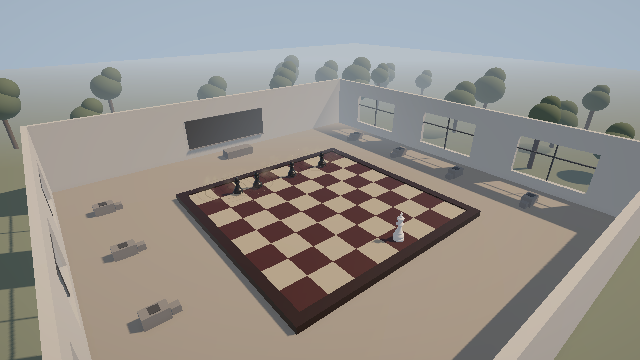
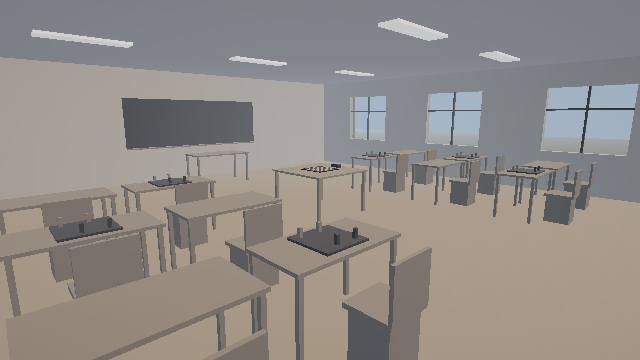
Classroom blockout at true chess scale: the board lies on a table in a giant classroom, with a ceiling
- 1 real metre = 36.4 game metres (a 2 m square is a 5.5 cm one): a 1.2 m chess table (44 m, 27 m above the floor),
  a 10 x 10 m classroom 2.8 m high (~364 m across, ~100 m tall), windows, chalkboard, door, bookshelves,
  student desks with chairs and little games set up, ceiling with light panels, giant trees outside
- Table and floor have colliders for rubble; far clip 2500 m and a long haze for the room's size

diff --git a/Assets/Scripts/Core/ClassroomBlockout.cs b/Assets/Scripts/Core/ClassroomBlockout.cs
@@ -3,26 +3,40 @@ using UnityEngine;
 namespace KingLastPiece
 {
     /// <summary>
-    /// Grey-box layout of the planned "white chess classroom" around the board (to be replaced by the real models):
-    /// a bright room with big windows on the east and west walls looking out on trees, a chalkboard and teacher's desk
-    /// on the north wall, the door and bookshelves on the south wall, and student desks with little chessboards along
-    /// the sides. The room keeps a fixed margin around the board and is rebuilt when the endless board grows.
+    /// Grey-box layout of the planned "white chess classroom" (to be replaced by the real models), at true chess scale:
+    /// the battlefield is a real chessboard lying on a table. A board square is 2 m in the game and about 5.5 cm in real
+    /// life, so the world around is <see cref="Scale"/> ≈ 36× real size — the table top is a 44 m plateau 27 m above the
+    /// floor, the room (10 × 10 m, 2.8 m high in real life) is ~360 m across and ~100 m tall, and the trees outside the
+    /// windows are giants. The table grows with the endless board; the room stays.
     /// It replaces the dark hall (pillars, braziers, black floor) and switches the lighting to daylight.
     /// </summary>
     public static class ClassroomBlockout
     {
         const string RootName = "Classroom (blockout)";
-        /// <summary>Floor space between the board's edge and the walls.</summary>
-        const float Margin = 9f;
-        const float WallHeight = 6f, WallThick = 0.4f, FloorY = -0.4f;
+
+        /// <summary>Game metres per real metre: a 2 m square stands for a 5.5 cm one.</summary>
+        public const float Scale = 2f / 0.055f;
+
+        /// <summary>Top of the table (the board's underside rests on it).</summary>
+        const float TableTop = -0.4f;
 
         static readonly Color WallGrey = new Color(0.86f, 0.86f, 0.84f);
         static readonly Color FloorGrey = new Color(0.66f, 0.64f, 0.6f);
-        static readonly Color PropGrey = new Color(0.55f, 0.55f, 0.55f);
+        static readonly Color PropGrey = new Color(0.58f, 0.57f, 0.55f);
+        static readonly Color TableGrey = new Color(0.62f, 0.6f, 0.56f);
         static readonly Color DarkGrey = new Color(0.28f, 0.29f, 0.3f);
+        static readonly Color CeilingGrey = new Color(0.9f, 0.9f, 0.89f);
         static readonly Color GroundGrey = new Color(0.5f, 0.55f, 0.48f);
         static readonly Color TreeGrey = new Color(0.38f, 0.45f, 0.36f);
         static readonly Color TrunkGrey = new Color(0.4f, 0.36f, 0.32f);
+
+        static float M(float realMetres) => realMetres * Scale;
+
+        // Real-life room (metres): the chess table stands in the middle of a 10 × 10 m classroom.
+        const float RoomHalf = 5f, RoomHeight = 2.8f, WallThick = 0.15f;
+        const float TableHeight = 0.75f, TableThick = 0.03f, TableLeg = 0.05f;
+
+        static float Floor => TableTop - M(TableHeight);
 
         /// <summary>Builds (or rebuilds, for the current board size) the room under the arena.</summary>
         public static void Build(ArenaBoard board)
@@ -40,98 +54,156 @@ namespace KingLastPiece
 
             var root = new GameObject(RootName).transform;
             root.SetParent(arena, false);
-            float half = GameManager.BoardHalf + Margin;
             var wall = MaterialLib.Get(WallGrey, 0.2f);
-            var floor = MaterialLib.Get(FloorGrey, 0.3f);
             var prop = MaterialLib.Get(PropGrey, 0.3f);
             var dark = MaterialLib.Get(DarkGrey, 0.4f);
 
-            // Floor of the room, and the lawn outside.
-            Box(root, "Floor", new Vector3(0f, FloorY - 0.05f, 0f), new Vector3(half * 2f, 0.1f, half * 2f), floor);
-            Box(root, "Outside Ground", new Vector3(0f, FloorY - 0.15f, 0f), new Vector3(220f, 0.1f, 220f), MaterialLib.Get(GroundGrey, 0.1f));
-
-            // North: solid wall, chalkboard, teacher's desk.
-            Box(root, "Wall N", new Vector3(0f, FloorY + WallHeight / 2f, half), new Vector3(half * 2f + WallThick, WallHeight, WallThick), wall);
-            Box(root, "Chalkboard", new Vector3(0f, FloorY + 2.6f, half - WallThick / 2f - 0.06f), new Vector3(9f, 3f, 0.1f), dark);
-            Box(root, "Chalk Tray", new Vector3(0f, FloorY + 1.05f, half - WallThick / 2f - 0.15f), new Vector3(9f, 0.08f, 0.2f), prop);
-            Box(root, "Teacher Desk", new Vector3(0f, FloorY + 0.4f, half - 2.4f), new Vector3(3f, 0.8f, 1.2f), prop);
-
-            // South: wall with the door and bookshelves.
-            Box(root, "Wall S", new Vector3(0f, FloorY + WallHeight / 2f, -half), new Vector3(half * 2f + WallThick, WallHeight, WallThick), wall);
-            Box(root, "Door", new Vector3(half * 0.55f, FloorY + 1.3f, -half + WallThick / 2f + 0.05f), new Vector3(1.4f, 2.6f, 0.1f), dark);
-            for (int i = 0; i < 2; i++)
-                Box(root, "Bookshelf", new Vector3(-half * 0.55f + i * 3.4f, FloorY + 1.1f, -half + 0.6f), new Vector3(3f, 2.2f, 0.7f), prop);
-
-            // East and west: walls with three big windows each, looking out on the trees.
-            for (int side = -1; side <= 1; side += 2)
-                WindowWall(root, side, half, wall, dark);
-
-            // Student desks with little chessboards along the window walls.
-            for (int side = -1; side <= 1; side += 2)
-                for (int i = 0; i < 4; i++)
-                {
-                    float z = Mathf.Lerp(-half * 0.6f, half * 0.6f, i / 3f);
-                    float x = side * (half - 3.2f);
-                    Box(root, "Student Desk", new Vector3(x, FloorY + 0.37f, z), new Vector3(1.4f, 0.75f, 0.8f), prop);
-                    Box(root, "Desk Chessboard", new Vector3(x, FloorY + 0.76f, z), new Vector3(0.55f, 0.03f, 0.55f), dark);
-                    Box(root, "Chair", new Vector3(x - side * 1.0f, FloorY + 0.23f, z), new Vector3(0.5f, 0.45f, 0.5f), prop);
-                }
-
-            Trees(root, half);
+            ChessTable(root, MaterialLib.Get(TableGrey, 0.35f));
+            Room(root, wall, prop, dark);
+            Furniture(root, prop, dark);
+            Trees(root);
             Daylight();
         }
 
-        static void WindowWall(Transform root, int side, float half, Material wall, Material dark)
+        /// <summary>The table the board lies on: 1.2 m square in real life (≈ 44 m), wider if the endless board outgrows it.</summary>
+        static void ChessTable(Transform root, Material wood)
         {
-            float x = side * half, len = half * 2f + WallThick;
-            const float sill = 1f, top = 4.4f;
+            float half = Mathf.Max(M(0.6f), GameManager.BoardHalf + 6f);
+            float thick = M(TableThick);
+            var top = Box(root, "Chess Table Top", new Vector3(0f, TableTop - thick / 2f, 0f), new Vector3(half * 2f, thick, half * 2f), wood);
+            top.gameObject.AddComponent<BoxCollider>();   // rubble that slides off the board lands on the table
+            float leg = M(TableLeg), legH = M(TableHeight) - thick, inset = half - leg;
+            for (int i = 0; i < 4; i++)
+            {
+                float x = (i % 2 == 0 ? -1 : 1) * inset, z = (i < 2 ? -1 : 1) * inset;
+                Box(root, "Chess Table Leg", new Vector3(x, Floor + legH / 2f, z), new Vector3(leg, legH, leg), wood);
+            }
+        }
+
+        static void Room(Transform root, Material wall, Material prop, Material dark)
+        {
+            float half = M(RoomHalf), height = M(RoomHeight), thick = M(WallThick), floorY = Floor;
+            var floor = Box(root, "Floor", new Vector3(0f, floorY - 0.5f, 0f), new Vector3(half * 2f, 1f, half * 2f), MaterialLib.Get(FloorGrey, 0.3f));
+            floor.gameObject.AddComponent<BoxCollider>();
+            Box(root, "Outside Ground", new Vector3(0f, floorY - 3f, 0f), new Vector3(half * 12f, 1f, half * 12f), MaterialLib.Get(GroundGrey, 0.1f));
+
+            // Ceiling with grey light panels.
+            // (No shadow from the ceiling: the sun comes in at an angle the windows alone couldn't light the table at.)
+            Box(root, "Ceiling", new Vector3(0f, floorY + height + thick / 2f, 0f), new Vector3(half * 2f + thick, thick, half * 2f + thick), MaterialLib.Get(CeilingGrey, 0.1f), shadows: false);
+            for (int i = -1; i <= 1; i++)
+                for (int j = -1; j <= 1; j += 2)
+                    Box(root, "Ceiling Light", new Vector3(i * M(3f), floorY + height - M(0.02f), j * M(1.8f)), new Vector3(M(1.2f), M(0.04f), M(0.3f)),
+                        MaterialLib.Get(new Color(0.97f, 0.97f, 0.95f), 0.1f, 0f, new Color(0.6f, 0.6f, 0.58f)));
+
+            // North: chalkboard (3.6 × 1.2 m) and the teacher's desk.
+            Box(root, "Wall N", new Vector3(0f, floorY + height / 2f, half), new Vector3(half * 2f + thick, height, thick), wall);
+            Box(root, "Chalkboard", new Vector3(0f, floorY + M(1.5f), half - thick / 2f - M(0.02f)), new Vector3(M(3.6f), M(1.2f), M(0.03f)), dark);
+            Box(root, "Chalk Tray", new Vector3(0f, floorY + M(0.88f), half - thick / 2f - M(0.05f)), new Vector3(M(3.6f), M(0.03f), M(0.08f)), prop);
+
+            // South: door (0.9 × 2.1 m) and bookshelves.
+            Box(root, "Wall S", new Vector3(0f, floorY + height / 2f, -half), new Vector3(half * 2f + thick, height, thick), wall);
+            Box(root, "Door", new Vector3(M(3f), floorY + M(1.05f), -half + thick / 2f + M(0.02f)), new Vector3(M(0.9f), M(2.1f), M(0.04f)), dark);
+            for (int i = 0; i < 3; i++)
+                Box(root, "Bookshelf", new Vector3(M(-3.6f + i * 1f), floorY + M(1f), -half + thick / 2f + M(0.18f)), new Vector3(M(0.9f), M(2f), M(0.35f)), prop);
+
+            // East and west: three windows each (1.5 × 1.4 m, sill at 0.9 m), the trees beyond.
+            for (int side = -1; side <= 1; side += 2)
+                WindowWall(root, side, half, height, thick, floorY, wall, dark);
+        }
+
+        static void WindowWall(Transform root, int side, float half, float height, float thick, float floorY, Material wall, Material dark)
+        {
+            float x = side * half, len = half * 2f + thick;
+            float sill = M(0.9f), top = M(2.3f), window = M(1.5f);
             string n = side > 0 ? "E" : "W";
-            // Below the sills and above the windows: full-length strips.
-            Box(root, $"Wall {n} Low", new Vector3(x, FloorY + sill / 2f, 0f), new Vector3(WallThick, sill, len), wall);
-            Box(root, $"Wall {n} High", new Vector3(x, FloorY + (top + WallHeight) / 2f, 0f), new Vector3(WallThick, WallHeight - top, len), wall);
-            // Piers between three equal windows.
+            Box(root, $"Wall {n} Low", new Vector3(x, floorY + sill / 2f, 0f), new Vector3(thick, sill, len), wall);
+            Box(root, $"Wall {n} High", new Vector3(x, floorY + (top + height) / 2f, 0f), new Vector3(thick, height - top, len), wall);
             const int windows = 3;
-            float window = Mathf.Min(6f, len / (windows * 1.6f));
             float pier = (len - windows * window) / (windows + 1);
             var glass = MaterialLib.Transparent(new Color(0.75f, 0.88f, 1f, 0.12f));
             for (int i = 0; i <= windows; i++)
             {
                 float z = -len / 2f + pier / 2f + i * (pier + window);
-                Box(root, $"Wall {n} Pier", new Vector3(x, FloorY + (sill + top) / 2f, z), new Vector3(WallThick, top - sill, pier), wall);
+                Box(root, $"Wall {n} Pier", new Vector3(x, floorY + (sill + top) / 2f, z), new Vector3(thick, top - sill, pier), wall);
                 if (i == windows) break;
                 float wz = z + pier / 2f + window / 2f;
-                Box(root, "Window Glass", new Vector3(x, FloorY + (sill + top) / 2f, wz), new Vector3(0.04f, top - sill, window), glass, shadows: false);
-                Box(root, "Window Mullion", new Vector3(x, FloorY + (sill + top) / 2f, wz), new Vector3(0.12f, top - sill, 0.1f), dark);
-                Box(root, "Window Transom", new Vector3(x, FloorY + sill + (top - sill) * 0.66f, wz), new Vector3(0.12f, 0.1f, window), dark);
+                Box(root, "Window Glass", new Vector3(x, floorY + (sill + top) / 2f, wz), new Vector3(M(0.01f), top - sill, window), glass, shadows: false);
+                Box(root, "Window Mullion", new Vector3(x, floorY + (sill + top) / 2f, wz), new Vector3(M(0.05f), top - sill, M(0.04f)), dark);
+                Box(root, "Window Transom", new Vector3(x, floorY + sill + (top - sill) * 0.66f, wz), new Vector3(M(0.05f), M(0.04f), window), dark);
             }
         }
 
-        /// <summary>Grey-box trees outside: trunks with stacked crowns, scattered behind every wall (most behind the windows).</summary>
-        static void Trees(Transform root, float half)
+        /// <summary>Teacher's desk, rows of student desks and chairs (some with chessboards set up), a chess clock.</summary>
+        static void Furniture(Transform root, Material prop, Material dark)
+        {
+            float floorY = Floor, half = M(RoomHalf);
+            // Teacher's desk in front of the chalkboard.
+            Desk(root, new Vector3(0f, 0f, half - M(1.2f)), 1.4f, 0.7f, prop);
+            // Student desks in two blocks to either side of the chess table, facing the chalkboard.
+            for (int side = -1; side <= 1; side += 2)
+                for (int row = 0; row < 3; row++)
+                    for (int col = 0; col < 2; col++)
+                    {
+                        var c = new Vector3(side * M(2.4f + col * 1.3f), 0f, M(-2.6f + row * 1.6f));
+                        Desk(root, c, 1.1f, 0.6f, prop);
+                        // Chair behind the desk (seat 0.45 m, back 0.85 m).
+                        Box(root, "Chair Seat", new Vector3(c.x, floorY + M(0.44f), c.z - M(0.55f)), new Vector3(M(0.42f), M(0.04f), M(0.4f)), prop);
+                        Box(root, "Chair Back", new Vector3(c.x, floorY + M(0.65f), c.z - M(0.74f)), new Vector3(M(0.42f), M(0.4f), M(0.03f)), prop);
+                        Box(root, "Chair Legs", new Vector3(c.x, floorY + M(0.21f), c.z - M(0.55f)), new Vector3(M(0.36f), M(0.42f), M(0.34f)), prop);
+                        // Every other desk has a little game set up (board 0.45 m, a few pieces).
+                        if ((row + col) % 2 == 0)
+                        {
+                            float deskTop = floorY + M(0.75f);
+                            Box(root, "Desk Chessboard", new Vector3(c.x, deskTop + M(0.01f), c.z), new Vector3(M(0.45f), M(0.02f), M(0.45f)), dark);
+                            for (int k = 0; k < 4; k++)
+                                Box(root, "Desk Piece", new Vector3(c.x + M(-0.15f + k * 0.1f), deskTop + M(0.06f), c.z + M(k % 2 == 0 ? 0.15f : -0.15f)),
+                                    new Vector3(M(0.03f), M(0.08f), M(0.03f)), k % 2 == 0 ? prop : dark);
+                        }
+                    }
+            // A chess clock on the chess table, beside the board.
+            float tableHalf = Mathf.Max(M(0.6f), GameManager.BoardHalf + 6f);
+            Box(root, "Chess Clock", new Vector3(GameManager.BoardHalf + (tableHalf - GameManager.BoardHalf) / 2f, TableTop + M(0.03f), 0f),
+                new Vector3(M(0.06f), M(0.06f), M(0.18f)), dark);
+        }
+
+        static void Desk(Transform root, Vector3 c, float width, float depth, Material mat)
+        {
+            float floorY = Floor, h = M(0.75f), top = M(0.03f), leg = M(0.04f);
+            Box(root, "Desk Top", new Vector3(c.x, floorY + h - top / 2f, c.z), new Vector3(M(width), top, M(depth)), mat);
+            for (int i = 0; i < 4; i++)
+            {
+                float x = c.x + (i % 2 == 0 ? -1 : 1) * (M(width) / 2f - leg);
+                float z = c.z + (i < 2 ? -1 : 1) * (M(depth) / 2f - leg);
+                Box(root, "Desk Leg", new Vector3(x, floorY + (h - top) / 2f, z), new Vector3(leg, h - top, leg), mat);
+            }
+        }
+
+        /// <summary>Grey-box trees outside the window walls (6–10 m tall in real life), and a few beyond the others.</summary>
+        static void Trees(Transform root)
         {
             var trunk = MaterialLib.Get(TrunkGrey, 0.1f);
             var crown = MaterialLib.Get(TreeGrey, 0.1f);
             var rng = new System.Random(7);
             float R(float a, float b) => a + (float)rng.NextDouble() * (b - a);
-            for (int i = 0; i < 46; i++)
+            float half = M(RoomHalf);
+            for (int i = 0; i < 40; i++)
             {
-                // Two thirds east/west (in view of the windows), the rest north/south.
-                int sideKind = i % 3;
-                float along = R(-half - 14f, half + 14f), out_ = half + R(4f, 22f);
-                Vector3 p = sideKind == 2
-                    ? new Vector3(along, 0f, (i % 2 == 0 ? 1 : -1) * out_)
-                    : new Vector3((i % 2 == 0 ? 1 : -1) * out_, 0f, along);
-                float h = R(3.5f, 7f), w = R(2.6f, 4.6f);
+                int sideKind = i % 4;   // 0, 1: east / west (window views), 2: north, 3: south
+                float along = M(R(-12f, 12f)), out_ = half + M(R(3f, 16f));
+                Vector3 p = sideKind < 2
+                    ? new Vector3((sideKind == 0 ? 1 : -1) * out_, 0f, along)
+                    : new Vector3(along, 0f, (sideKind == 2 ? 1 : -1) * out_);
+                float h = M(R(6f, 10f)), w = M(R(3f, 5f));
                 var tree = new GameObject("Tree").transform;
                 tree.SetParent(root, false);
-                tree.localPosition = new Vector3(p.x, FloorY - 0.1f, p.z);
-                PieceFactory.Part(PrimitiveType.Cylinder, tree, new Vector3(0f, h * 0.35f, 0f), new Vector3(0.45f, h * 0.35f, 0.45f), trunk).name = "Trunk";
-                PieceFactory.Part(PrimitiveType.Sphere, tree, new Vector3(0f, h * 0.8f, 0f), new Vector3(w, w * 0.9f, w), crown).name = "Crown";
-                PieceFactory.Part(PrimitiveType.Sphere, tree, new Vector3(w * 0.25f, h * 0.8f + w * 0.35f, 0f), Vector3.one * w * 0.65f, crown).name = "Crown";
+                tree.localPosition = new Vector3(p.x, Floor - 2.5f, p.z);
+                PieceFactory.Part(PrimitiveType.Cylinder, tree, new Vector3(0f, h * 0.3f, 0f), new Vector3(M(0.35f), h * 0.3f, M(0.35f)), trunk).name = "Trunk";
+                PieceFactory.Part(PrimitiveType.Sphere, tree, new Vector3(0f, h * 0.72f, 0f), new Vector3(w, w * 0.85f, w), crown).name = "Crown";
+                PieceFactory.Part(PrimitiveType.Sphere, tree, new Vector3(w * 0.25f, h * 0.72f + w * 0.35f, 0f), Vector3.one * w * 0.65f, crown).name = "Crown";
             }
         }
 
-        /// <summary>Bright daylight through the windows, a pale sky and a light haze instead of the dark hall.</summary>
+        /// <summary>Bright daylight through the windows, a pale sky and a light haze over the giant room.</summary>
         static void Daylight()
         {
             foreach (var l in Object.FindObjectsByType<Light>(FindObjectsSortMode.None))
@@ -149,10 +221,14 @@ namespace KingLastPiece
             RenderSettings.fog = true;
             RenderSettings.fogMode = FogMode.Linear;
             RenderSettings.fogColor = new Color(0.82f, 0.88f, 0.94f);
-            RenderSettings.fogStartDistance = 35f;
-            RenderSettings.fogEndDistance = 110f;
+            RenderSettings.fogStartDistance = 250f;
+            RenderSettings.fogEndDistance = 1600f;
             var cam = Camera.main;
-            if (cam != null) cam.backgroundColor = new Color(0.72f, 0.83f, 0.95f);
+            if (cam != null)
+            {
+                cam.backgroundColor = new Color(0.72f, 0.83f, 0.95f);
+                cam.farClipPlane = 2500f;   // the room is ~360 m across, the trees further out
+            }
         }
 
         static Transform Box(Transform parent, string name, Vector3 pos, Vector3 size, Material mat, bool shadows = true)

diff --git a/Assets/Scripts/Lab/EndlessShots.cs b/Assets/Scripts/Lab/EndlessShots.cs
@@ -126,14 +126,17 @@ namespace KingLastPiece
         {
             var hud = game.GetComponent<Hud>();
             if (hud != null) hud.enabled = false;
-            float h = GameManager.BoardHalf + 9f;
+            // Real chess scale: 1 real metre = ClassroomBlockout.Scale game metres; the table top is at y ≈ -0.4.
+            float m = ClassroomBlockout.Scale, floor = -0.4f - 0.75f * m;
             game.Rig.UseOverride = true;
-            game.Rig.OverridePosition = new Vector3(-h * 0.9f, 14f, -h * 1.1f);
-            game.Rig.OverrideLookAt = new Vector3(h * 0.15f, 0f, h * 0.2f);
+            // From a back corner of the room, at a standing person's eye height, looking at the chess table.
+            game.Rig.OverridePosition = new Vector3(-4.2f * m, floor + 1.7f * m, -4.4f * m);
+            game.Rig.OverrideLookAt = new Vector3(0f, -0.2f * m, 0f);
             yield return Frames(5);
             yield return Shot("32_Classroom_Wide.png");
-            game.Rig.OverridePosition = new Vector3(h * 0.85f - 2f, 4.5f, -h * 0.2f);
-            game.Rig.OverrideLookAt = new Vector3(h + 6f, 2f, 0f);
+            // From the table's edge toward the east windows.
+            game.Rig.OverridePosition = new Vector3(18f, 6f, -4f);
+            game.Rig.OverrideLookAt = new Vector3(5f * m, 0.8f * m, 0f);
             yield return Frames(3);
             yield return Shot("33_Classroom_Window.png");
             game.Rig.UseOverride = false;
